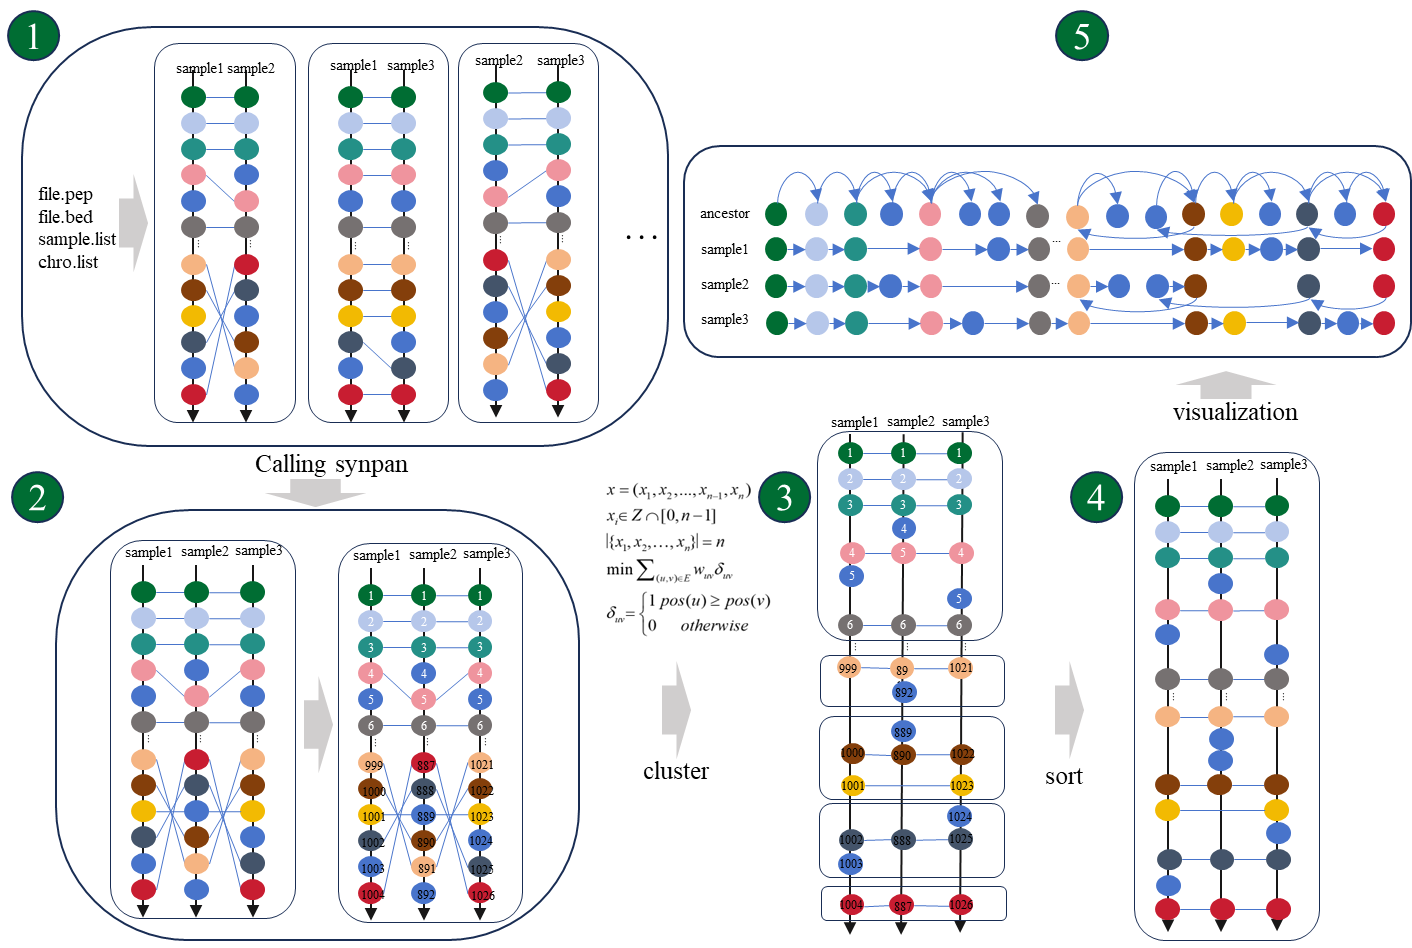
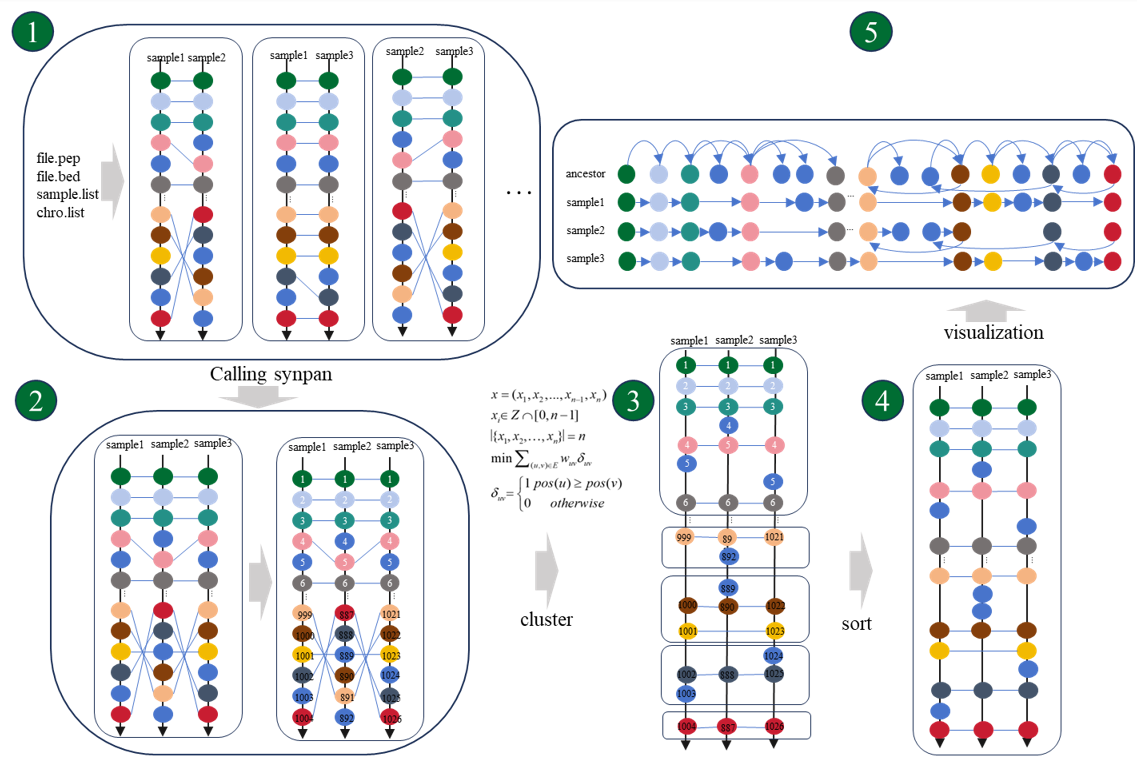
update image

diff --git a/README.md b/README.md
@@ -1,4 +1,4 @@
-![](images/ordopan-main.png "ordoPan 构建流程")
+![](images/ordopan-main.png "ordoPan 执行原理")
 
 - 编译程序&安装依赖
 ```bash
